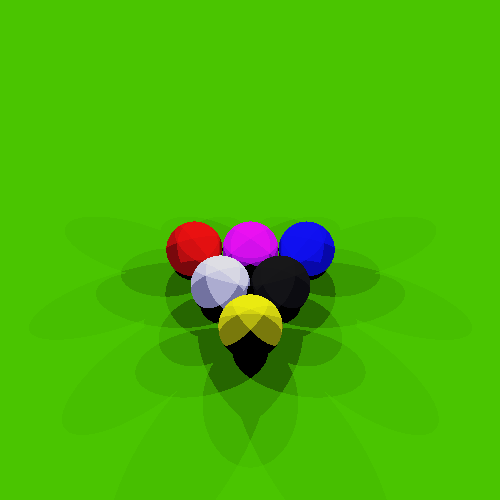
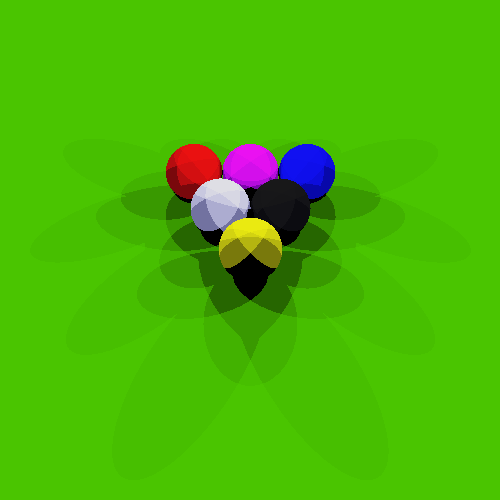
real color fix (didn't update before)

Changed region(s): [[0.24, 0.27, 0.78, 0.87]]

diff --git a/Ray-Tracing/src/RayTrace/Scene.java b/Ray-Tracing/src/RayTrace/Scene.java
@@ -101,15 +101,15 @@ class Scene{
 	        					maxlight[2] = Math.max(maxlight[2], lightInt[(j+(imageHeight-1-i)*imageWidth)*3+2]);
 	        				}
 	        				else { //surface is obscured from light source
-	        					lightInt[(j+(imageHeight-1-i)*imageWidth)*3] *= lightray.light.r*(1-lightray.light.shadow_intens);
-	        					//lightInt[(j+(imageHeight-1-i)*imageWidth)*3] /= 2;
-	        					maxlight[0] = Math.max(maxlight[0], lightInt[(j+(imageHeight-1-i)*imageWidth)*3]);
-	        					lightInt[(j+(imageHeight-1-i)*imageWidth)*3+1] *= lightray.light.g*(1-lightray.light.shadow_intens);
-	        					//lightInt[(j+(imageHeight-1-i)*imageWidth)*3+1] /= 2;
-	        					maxlight[1] = Math.max(maxlight[1], lightInt[(j+(imageHeight-1-i)*imageWidth)*3+1]);
-	        					lightInt[(j+(imageHeight-1-i)*imageWidth)*3+2] *= lightray.light.b*(1-lightray.light.shadow_intens);
-	        					//lightInt[(j+(imageHeight-1-i)*imageWidth)*3+2] /= 2;
-	        					maxlight[2] = Math.max(maxlight[2], lightInt[(j+(imageHeight-1-i)*imageWidth)*3+2]);
+//	        					lightInt[(j+(imageHeight-1-i)*imageWidth)*3] *= lightray.light.r*(1-lightray.light.shadow_intens);
+//	        					//lightInt[(j+(imageHeight-1-i)*imageWidth)*3] /= 2;
+//	        					maxlight[0] = Math.max(maxlight[0], lightInt[(j+(imageHeight-1-i)*imageWidth)*3]);
+//	        					lightInt[(j+(imageHeight-1-i)*imageWidth)*3+1] *= lightray.light.g*(1-lightray.light.shadow_intens);
+//	        					//lightInt[(j+(imageHeight-1-i)*imageWidth)*3+1] /= 2;
+//	        					maxlight[1] = Math.max(maxlight[1], lightInt[(j+(imageHeight-1-i)*imageWidth)*3+1]);
+//	        					lightInt[(j+(imageHeight-1-i)*imageWidth)*3+2] *= lightray.light.b*(1-lightray.light.shadow_intens);
+//	        					//lightInt[(j+(imageHeight-1-i)*imageWidth)*3+2] /= 2;
+//	        					maxlight[2] = Math.max(maxlight[2], lightInt[(j+(imageHeight-1-i)*imageWidth)*3+2]);
 	        				}
         				}
         				else { //using soft shadows
@@ -149,11 +149,11 @@ class Scene{
         					}
         				}
         			}
-	        		rgbData[(j+(imageHeight-1-i)*imageWidth)*3] = (byte) (this.surfs.get(min_ind).mat.diff_r*255*lightInt[(j+(imageHeight-1-i)*imageWidth)*3]);
+	        		rgbData[(j+(imageHeight-1-i)*imageWidth)*3] = (byte) (this.surfs.get(min_ind).mat.diff_r*255*(1-lightInt[(j+(imageHeight-1-i)*imageWidth)*3]));
 	        		
-	        		rgbData[(j+(imageHeight-1-i)*imageWidth)*3+1] = (byte) (this.surfs.get(min_ind).mat.diff_g*255*lightInt[(j+(imageHeight-1-i)*imageWidth)*3+1]);
+	        		rgbData[(j+(imageHeight-1-i)*imageWidth)*3+1] = (byte) (this.surfs.get(min_ind).mat.diff_g*255*(1-lightInt[(j+(imageHeight-1-i)*imageWidth)*3+1]));
 	        		
-	        		rgbData[(j+(imageHeight-1-i)*imageWidth)*3+2] = (byte) (this.surfs.get(min_ind).mat.diff_b*255*lightInt[(j+(imageHeight-1-i)*imageWidth)*3+2]);
+	        		rgbData[(j+(imageHeight-1-i)*imageWidth)*3+2] = (byte) (this.surfs.get(min_ind).mat.diff_b*255*(1-lightInt[(j+(imageHeight-1-i)*imageWidth)*3+2]));
         		}
         		else {
              		rgbData[(j+(imageHeight-1-i)*imageWidth)*3] = (byte) (this.bg_r*255);
@@ -165,7 +165,7 @@ class Scene{
         	}
         }
 
-      System.out.println(maxlight[1]);
+      System.out.println(maxlight[0]);
      //maxlight =1;
 //      for(int k=0; k< rgbData.length;k++) {
 //       maxlight=Math.max(maxlight, rgbData[k]);
@@ -173,8 +173,8 @@ class Scene{
        for(int k=0; k< rgbData.length;k++) {
     	 //System.out.println(rgbData[k]);
     	 //  if(lightInt[k] > 0){
-    		   //rgbData[k] =(byte) (((double)rgbData[k])*((double)1/this.lights.size()));
-    		   rgbData[3*k+1] =(byte) ((rgbData[3*k])*(1/(maxlight[1])));
+    		   //rgbData[k] =(byte) (((double)rgbData[k])*((double)1/(double)this.lights.size()));
+    	  ///rgbData[k] =(byte) ((rgbData[k])*(1/(maxlight[1])));
     		 //  rgbData[3*k+2] =(byte) ((rgbData[3*k+2])*(1/(maxlight[2])));
     	  // }
     	 //System.out.println(rgbData[k]);
